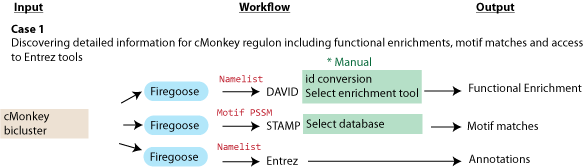
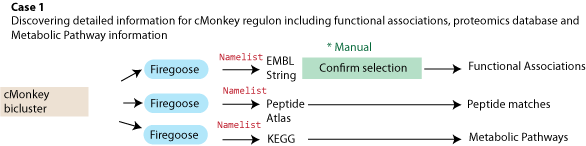
Visual changes to workflow and fixed help pages

diff --git a/web_app/templates/workflow.html b/web_app/templates/workflow.html
@@ -17,16 +17,33 @@
 <div id="container" style="width: 100%">
 <img align="right" width="40px" src="{{STATIC_PREFIX}}images/workflow_logo.png">
 <h5> Gaggle Workflow</h5>
-<div>
-<applet id="GaggleProxy" archive="{{ STATIC_PREFIX }}lib/GaggleProxy.jar, {{ STATIC_PREFIX }}lib/gaggle-connector.jar, {{ STATIC_PREFIX }}lib/boss.jar" code="org.systemsbiology.gaggle.geese.proxygoose.GaggleProxyApplet.class" width="0" height="0">
-</applet>
-
-<!-- <input type="text" id="htmlLoader" />
-<input type="button" value="Load" onclick="LoadHTML()" />
-<input type="button" value="Filter" onclick="FilterHTML()" />
-<div id="divHTMLResult"></div> -->
-
-</div>
+<table width="100%">
+	<tbody>
+		<tr>
+			<th>Start Here <img align="right" width="25px" src="{{ STATIC_PREFIX }}images/Redo.png"></th>
+			<th><span class="small blue fancybutton">1</span>&nbsp; <a class="small red awesome" href='/static/jnlp/boss.jnlp' title="First start Gaggle Boss">Start Boss</a> </th>
+			<th><span class="small blue fancybutton">2</span>&nbsp; Add and connect workflow modules </th>
+			<th><span class="small blue fancybutton">3</span>&nbsp; 
+				<select id="organismSelect" onchange="javascript:organismSelected(this);">
+        		<option value = "" selected>Select an organism</option>
+        		<option value="bce">Bacillus cereus ATCC14579 | bce</option>
+        		<option value="bsu">Bacillus subtilis | bsu</option>
+		        <option value="bth">Bacteroides thetaiotaomicron VPI-5482 | bth</option>
+		        <option value="cje">Campylobacter jejuni | cje</option>
+		        <option value="cac">Clostridium acetobutylicum | cac</option>
+		        <!--<option value="eco">Escherichia coli K12 | eco</option>-->
+		        <option value="gsu">Geobacter sulfurreducens | gsu</option>
+		        <option value="hal">Halobacterium salinarum NRC-1 | hal</option>
+		        <option value="mmp">Methanococcus maripaludis S2 | mmp</option>
+		        <option value="pae">Pseudomonas aeruginosa | pae</option>
+		        <option value="rsp">Rhodobacter sphaeroides 2.4.1 | rsp</option>
+		        <option value="syf">Synechococcus elongatus PCC 7942 | syf</option>
+		    </select></th>
+			<th> <span class="small blue fancybutton">4</span>&nbsp; <input type="button" value="Run Workflow" onclick="SubmitWorkflow()" class="small green awesome" title="Run selected workflow"/></th>
+			<th><a class="componenthelp" href="#quickhelp"><img src="/static/images/question.gif" /></a></th>
+		</tr>
+	</tbody>
+</table>
 <table id="tblWorkflow" class="tblWorkflow">
 <tbody>
 <tr>
@@ -39,7 +56,7 @@
     </div>
 </th>
 <th style="width: 65%">
-<span id="boss"  class="boss"><a href='/static/jnlp/boss.jnlp' title="First start Gaggle Boss">start Gaggle boss</a></span>
+<!--<span id="boss"  class="boss"><a href='/static/jnlp/boss.jnlp' title="First start Gaggle Boss">start Gaggle boss</a></span>-->
 <input type="button" value="Run" onclick="SubmitWorkflow()" class="button-run" title="Run selected workflow"/>
 <input type="button" value="Save" onclick="SaveClicked()" class="button" title="Save or edit current workflow"/>
 <input type="button" value="Delete" onclick="DeleteClicked()" class="button" title="Delete current workflow"/>
@@ -59,7 +76,7 @@
     </div>
 </th>
 </tr>
-<tr>
+<!--<tr>
 	<td></td>
 	<td>
 	    		<select id="organismSelect" onchange="javascript:organismSelected(this);">
@@ -81,7 +98,7 @@
 
 	</td>
 	<td></td>
-</tr>
+</tr>-->
 <tr>
 <td valign="top" style="width: 15%">
  <div id="components" class="divcomponents">
@@ -125,39 +142,43 @@
 <div id="workflowcanvas" class="workflowcanvas" >
 <div><span class="search_help">This is your workflow canvas. Start adding workflow components from the left, open a saved workflow or read our <a class="componenthelp" href="#quickhelp">quick start guide.</a></span></div>
 <div style="display:none">
- <div id="quickhelp"> 
-	<h2>Quick Start Guide</h2>
-	<h5> Initial Setup</h5>
-	<ul>
-		<li>1. Install each goose by using the links on the left (if this is your first time). This will download the updated goose.</li>
-		<li>2. Start the Gaggle Boss by clicking on the <span class="small red awesome">Start the Boss</span> link</li>
-                <li>3. Click on the Gaggle toolbar in Firefox and <b>Connect to Gaggle</b></li>
-		<li>4. Drag and drop the goose you want into your workflow canvas</li>
-		<li>5. For each goose "Enter the url of the executable in your computer" 
-			e.g for cytoscape: "C:\Program Files\Cytoscape_v2.8.3\Cytoscape.exe" in Windows or "/Applications/Cytoscape_v2.8.3" in Mac OSX</li>
-		<li>6. Enter any subactions or data you want to open</li>
-		<li>7. In order to connect to components in the workflow drag the circle from the input goose to square of next workflow component</li>
- 		<li>8. Save your workflow </li>
-	</ul>
+ <div id="quickhelp" style="text-align:left"> 
+	<h2>Workflow Help</h2>
+	<h5>Quick Start Guide</h5>
+		<p><span class="small blue fancybutton">1</span>&nbsp; Start the Gaggle Boss by clicking on the <span class="small red awesome">Start the Boss</span> link and click on the "Gaggle" link in the firegoose toolbar to connect to Gaggle.</p>
+		<p><span class="small blue fancybutton">2</span>&nbsp; Add workflow modules from left sidebar and connect them.</p>
+		<p><span class="small blue fancybutton">3</span>&nbsp; Select an organism to analyze if you would like to use Network Portal organisms in your workflow. This will automatically create necessary attributes specific for the selected organism. Otherwise you can leave this field unselected and enter your custom specifications for each module.</p>
+		<p><span class="small blue fancybutton">4</span>&nbsp; Click <span class="small green awesome">"Run"</span> to start the workflow</li> </p>
+		
+	<h5> Running custom workflows</h5>
+		<p>If you would like to use your own cytoscape or mev files it is possible to create custom workflows. For the initial setup you will need to download and install custom workflow modules. 
+		<p><span class="small blue fancybutton">1</span>&nbsp; Install each goose by using the links on the left (if this is your first time). This will download the updated goose.</p>
+		<p><span class="small blue fancybutton">2</span>&nbsp; Start the Gaggle Boss by clicking on the <span class="small red awesome">Start the Boss</span> link</p>
+        <p><span class="small blue fancybutton">3</span>&nbsp; Click on the Gaggle toolbar in Firefox and <b>Connect to Gaggle</b></p>
+		<p><span class="small blue fancybutton">4</span>&nbsp; Drag and drop the goose you want into your workflow canvas</p>
+		<p><span class="small blue fancybutton">5</span>&nbsp; For each module (except firegoose),  workflow will automatically capture path to the executable file in your computer if you open the module (cytoscape or mev) after the gaggle boss has already started.Alternatively, "Enter the url of the executable in your computer" 
+			e.g for cytoscape: "C:\Program Files\Cytoscape_v2.8.3\Cytoscape.exe" in Windows or "/Applications/Cytoscape_v2.8.3" in Mac OSX. </p>
+		<p><span class="small blue fancybutton">6</span>&nbsp; Select any subactions for your modules from the dropdown menu.</p>
+		<p><span class="small blue fancybutton">7</span>&nbsp; If your workflow requires additional files, enter path to data files in your desktop or on the web. For example, this could be link to the expression file in your desktop or web.</p>
+		<p><span class="small blue fancybutton">8</span>&nbsp; In order to connect to components in the workflow drag the circle from the input goose to square of the next workflow component</p>
+ 		<p><span class="small blue fancybutton">9</span>&nbsp; Save your workflow </p>
+
 	<h5> Running the Workflow</h5>
-	<ul>
-		<li> 1. Create a new workflow or open a saved one</li>
-		<li> 2. Click <span class="small green awesome">"Run"</span> to start the workflow</li>
-		<li> 3. For Firegoose, this will open a new tab and will take you to the page you specified in your workflow</li>
-		<li> 4. Select the type of the data you want for the next component from the Firegoose toolbar and select "Next"</li>
-		<li> 5. Your data will be broadcast to the next component in your workflow and your next application or webpage will be opened.</li>
-		<li> 6. For each workflow component you need to select specific data and click "Next"</li>
-	</ul>
+		<p><span class="small blue fancybutton">1</span>&nbsp; Create a new workflow or open a saved one</p>
+		<p><span class="small blue fancybutton">2</span>&nbsp; Click <span class="small green awesome">"Run"</span> to start the workflow</p>
+		<p><span class="small blue fancybutton">3</span>&nbsp; For Firegoose, this will open a new tab and will take you to the page you specified in your workflow</p>
+		<p><span class="small blue fancybutton">4</span>&nbsp; Select the type of the data you want for the next component from the Firegoose toolbar and select "Next"</p>
+		<p><span class="small blue fancybutton">5</span>&nbsp; Your data will be broadcast to the next component in your workflow and your next application or webpage will be opened.</p>
+		<p><span class="small blue fancybutton">6</span>&nbsp; For each workflow component you need to select specific data and click "Next"</p>
+
 	<h5> Recording the Workflow</h5>
-	<ul>
-		<li> 1. Gaggle can follow your actions and record them into your workflow for automated tasks</li>
-		<li> 2. Before recording make sure that the Gaggle bos has started</li>
-		<li> 3. Click on <span class="small awesome">"Record"</span> button to start recording</li>
-		<li> 4. Create workflow and follow the steps to complete your analysis</li>
-		<li> 5. Go back to your workspace and <span class="small awesome">"Stop"</span> your recording Once you are done</li>
-		<li> 6. Workflow components and connections will be automatically created and placed into your workspace.</li>
-		<li> 7. You can <span class="small awesome">"Pause"</span> workflow anytime</li>	
-	</ul>
+		<p><span class="small blue fancybutton">1</span>&nbsp; Gaggle can follow your actions and record them into your workflow for automated tasks</p>
+		<p><span class="small blue fancybutton">2</span>&nbsp; Before recording make sure that the Gaggle bos has started</p>
+		<p><span class="small blue fancybutton">3</span>&nbsp; Click on <span class="small awesome">"Record"</span> button to start recording</p>
+		<p><span class="small blue fancybutton">4</span>&nbsp; Create workflow and follow the steps to complete your analysis</p>
+		<p><span class="small blue fancybutton">5</span>&nbsp; Go back to your workspace and <span class="small awesome">"Stop"</span> your recording Once you are done</p>
+		<p><span class="small blue fancybutton">6</span>&nbsp; Workflow components and connections will be automatically created and placed into your workspace.</p>
+		<p><span class="small blue fancybutton">7</span>&nbsp; You can <span class="small awesome">"Pause"</span> workflow anytime</p>	
     <h4><a href="/static/apidocuments/index.html">API documents</a> for developing Boss and Goose that supports workflow</h4>
  </div>
 </div>
@@ -270,6 +291,16 @@
       </div>
 </div>
 
+<div>
+<applet id="GaggleProxy" archive="{{ STATIC_PREFIX }}lib/GaggleProxy.jar, {{ STATIC_PREFIX }}lib/gaggle-connector.jar, {{ STATIC_PREFIX }}lib/boss.jar" code="org.systemsbiology.gaggle.geese.proxygoose.GaggleProxyApplet.class" width="0" height="0">
+</applet>
+
+<!-- <input type="text" id="htmlLoader" />
+<input type="button" value="Load" onclick="LoadHTML()" />
+<input type="button" value="Filter" onclick="FilterHTML()" />
+<div id="divHTMLResult"></div> -->
+
+</div>
 
 
 </div>

diff --git a/web_app/templates/help.html b/web_app/templates/help.html
@@ -275,32 +275,31 @@
 					</div>
 					<h4> Case 1 - Discovering Detailed Regulon Information</h4>
 					<div> <img align="right" src="{{ STATIC_PREFIX }}images/workflow_case-1.png">
-					<p> This exercise starts with a regulon in Network Portal. We will use a very simple workflow idea that includes broadcasting data via Firegoose to multiple web resources simultaneously. We will broadcast a Namelist of regulon members to DAVID for functional enrichment analysis and to Entrez to access NCBI tools. We will also broadcast motif PSSM information to STAMP in order to identify matches to known motifs.</p>
+					<p> This exercise starts with a regulon in Network Portal. We will use a very simple workflow idea that includes broadcasting data via Firegoose to multiple web resources simultaneously. We will broadcast a Namelist of regulon members to EMBL String for functional associations and to KEGG Pathways to access metabolic pathway information. We will also broadcast Namelist to Peptide Atlas in order to identify proteomics data available for this organism.</p>
 						<b>STEPS:</b>
 						<ol>
 							<li>Start <span class="small red awesome">Gaggle boss</span></li>
 							<li>First we will collect regulon info from a website by adding a <span class="small awesome">firegoose</span> module. 
 								Path to Firefox should be automatically detected. Leave subaction unchanged. Enter data url, or web resource to get regulon information.
-								In this example we will use one of Methanococcus maripaludis GRN regulon. (http://baliga.systemsbiology.net/cmonkey/enigma/mmp/cmonkey_4.8.8_mmp_1661x58_11_Oct_11_16:14:07/htmls/cluster0114.html)
+								In this example we will use one of Halobacterium sp. MRC-1 GRN regulon. (http://networks.systemsbiology.net/bicluster/788)
 								</li>
-							<li>Add <span class="small awesome">firegoose</span> module for DAVID.
-								Select the "DAVID" option from subaction menu and connect to the first Firegoose module.
-								<code>Manual: You need to convert the Namelist to a DAVID Id list once it has been submitted to DAVID.</code></li>
-							<li>Add firegoose module for Entrez. Select "Entrez Protein" subaction and connect to the first Firegoose module.</li>
-							<li>Last, we will add another firegoose module for STAMP. Select the "STAMP" subaction and connect to the first Firegoose module.</li>
-								<code>Manual: You need to select an appropriate database for motif searching on the STAMP site.</code></li>
+							<li>Add <span class="small awesome">firegoose</span> module for EMBL String.
+								Select the "EMBL String" option from subaction menu and connect to the first Firegoose module.
+								<code>Manual: You need to click continue once EMBL String page has opened to confirm namelist to organism mapping.</code></li>
+							<li>Add firegoose module for KEGG. Select "KEGG Pathway" subaction and connect to the first Firegoose module.</li>
+							<li>Last, we will add another firegoose module for "Peptide Atlas". Select the "Peptide Atlas" subaction and connect to the first Firegoose module.</li>
+							
 							<li> Optional: Save your workflow</li>
 							<li> Run your workflow by using <span class="small green awesome">"Run"</span> button in the control panel.</li>	
 						</ol>
 					</div>
 					<h4> Case 2 - Analyzing gene expression data</h4>
 					<div> <img align="right" src="{{ STATIC_PREFIX }}images/workflow_case-2.png">
-					<p> The second exercise includes both desktop applications and web resources. The aim of this workflow is to automate analysis of gene expression data and identify functional associations, functional enrichments and associated regulatory network modules. We will start by opening a gene expression file (tab delimited) in Mev. After performing statistical analyses, we will broadcast selected genes via Firegoose to KEGG (Metabolic pathway enrichment) and EMBL Strings (Functional associations). Inparallel, we will also open a Network model in Cytoscape and broadcast our gene list to the network in order to select network modules that include these genes.</p>   
+					<p> The second exercise includes both desktop applications and web resources. The aim of this workflow is to automate analysis of gene expression data and identify functional associations, functional enrichments and associated regulatory network modules. We will start by opening a gene expression file (tab delimited) in Mev. After performing statistical analyses, we will broadcast selected genes via Firegoose to KEGG (Metabolic pathway enrichment) and EMBL Strings (Functional associations). In parallel, we will also open a Network model in Cytoscape and broadcast our gene list to the network in order to select network modules that include these genes.</p>   
 						<b>STEPS:</b>
 						<ol>
 							<li>Start <span class="small red awesome">Gaggle boss</span></li>
-							<li>We will add mev module to open a gene expression file. Leave subaction unchanged. If you are opening the gene expression file from the web, enter the url; otherwise, enter the path to the file on your computer.								In this example we will use gene expression data coming from studying energy metabolism for Desulfovibrio vulgaris.
-								We will compare gene expression upon growth on Pyruvate+Sulfate versus Pyruvate/Fermentation.
+							<li>We will add mev module to open a gene expression file. Leave subaction unchanged. If you are opening the gene expression file from the web, enter the url; otherwise, enter the path to the file on your computer. In this example we will use gene expression data coming from Desulfovibrio vulgaris in the Network Portal.
 								<code>Manual: After your workflow has started Mev will load the gene expression file. You can perform SAM analyses and then select genes that are upregulated in Pyruvate/Fermentation conditions and then broadcast them to the workflow.</code></li>
 								</li>
 							<li>Add firegoose module for EMBL Strings. Select "EMBL Strings" subaction and connect to MEV module. The EMBL Strings website will use the Namelist for our selected genes and search against the Strings database to identify functional associations. The resulting functional association network will be shown and captured in the workflow report.</li>
@@ -308,15 +307,15 @@
 								Select "EMBL Strings" subaction and connect to MEV module. EMBL Strings website will use Namelist for our selected genes and search against Strings database 
 								to identify functional associations. Resulting functional association network will be shown and captured in the workflow report.</li>
 							<li>Last, we will add <span class="small awesome">Cytoscape</span> module to open a network file. (For this example we will use GRN model for D. vulgaris).
-								Connect Cytoscape module to MEV module and enter path to your cytoscape network file (web or desktop). When workflow is started cytoscape will open 
-								your network file and capture broadcast list from MEV. Upregulated genes will be selected in the network for further network manipulations.
-								</li>
+								Connect Cytoscape module to MEV module and enter path to your cytoscape network file (For this example network will be automatically downloaded once you select an organism). When workflow is started cytoscape will open 
+								your network file and capture broadcast list from MEV.</li>
+							<li> Make sure to select Desulfovibrio vulgaris Hildenborough from organism selection drowdown menu.</li>
 							<li> Optional: Save your workflow</li>
 							<li> Run your workflow by using <span class="small green awesome">"Run"</span> button in the control panel.</li>	
 						</ol>
 					</div>
-					<h4> Case 3 - Assigning functions to hypothetical proteins</h4>
-					<div><img src="{{ STATIC_PREFIX }}images/workflow_case-3.png"></div>
+					<!--<h4> Case 3 - Assigning functions to hypothetical proteins</h4>
+					<div><img src="{{ STATIC_PREFIX }}images/workflow_case-3.png"></div>-->
 					</div></p>
 				</div>
 		
@@ -325,10 +324,10 @@
 			</div>
 			
 			<div id="tabs-5"><h5> Get Involved</h5><br>
-				<h4 class="medium orange awesome"> Development </h4>
+				<h3> <span class="small red fancybutton">1</span>&nbsp;Development </h3>
 				<p>One of the key benefits of the Gaggle and Gaggle Workflow is that anyone can implement their own Geese. We hope to promote interoperability among bioinformatics applications by making this as easy as possible. Have an application you'd like to see included on this page? Please contact us by email (sturkars at systemsbiology.org) or through the discussion groups.</p>
 				<p> We strongly encourage developers to take advantage of easy implementation features in Gaggle and Network Portal. If you are a developer who would like to integrate his/her desktop/web applications with Gaggle/Network Portal we provide all the support you need.</p>
-				<h4 class="medium orange awesome">Gaggle Subversion Repository</h4>
+				<h3> <span class="small red fancybutton">2</span>&nbsp;Gaggle Subversion Repository </h3>
 				<p>
 				The Gaggle's source code is all open source, licensed under the LGPL,
 				and served using the
@@ -355,23 +354,20 @@
 					</li>
 				</ul>
 				
-				
-				<p>
-				
-				<h4 class="medium orange awesome">Firegoose Source code</h4>
+				<h3> <span class="small red fancybutton">3</span>&nbsp;Firegoose Source code </h3>
 				<ul>
 					<li>Firegoose source is here:
 						<a href="http://gaggle.systemsbiology.net/svn/gaggle/FireGoose/trunk/">http://gaggle.systemsbiology.net/svn/gaggle/FireGoose/trunk/</a></li>
 				</ul>
-				<h4 class="medium orange awesome">Network Portal Source code</h4>
+				<h3> <span class="small red fancybutton">4</span>&nbsp;Network Portal Source code </h3>
 				<ul>
 					<li>Network Portal source is here:
 						<a href="http://baliga-lab/github.com/network_portal">http://baliga-lab/github.com/network_portal</a></li>
 				</ul>
-				<h4 class="medium orange awesome">Gaggle Workflow API</h4>
+				<h3> <span class="small red fancybutton">5</span>&nbsp;Gaggle Workflow API </h3>
 				<ul>
 					<li>Workflow API documentation is here:
-						<a href="http://baliga-lab/github.com/network_portal">http://baliga-lab/github.com/network_portal</a></li>
+						<a href="/static/apidocuments/index.html">http://networks.systemsbiology.net/static/apidocuments</a></li>
 				</ul>
 
 			</div>       

diff --git a/web_app/static/stylesheets/portal-style.css b/web_app/static/stylesheets/portal-style.css
@@ -472,7 +472,7 @@ input.button-record {
     padding: 1px 0 60px 0; /*6px should equal top padding of "ul li a" below, 7px should equal bottom padding + bottom border of "ul li a" below*/
    float:right;
     margin: -50px 2px;
-    text-align: right; //set value to "left", "center", or "right"*/
+    text-align: right; /*set value to "left", "center", or "right"*/
 }
 
 .underlinemenu ul li{
@@ -1937,6 +1937,25 @@ table#motif {
 .yellow.awesome:hover { background-color: #fc9200; }
 .green.awesome, .green.awesome:visited		{ background-color: #91bd09; }
 
+.fancybutton, .fancybutton:visited {
+	background-color: #222;
+	display: inline-block; 
+	padding: 5px 5px 6px; 
+	color: #fff; 
+	text-decoration: none;
+	-moz-border-radius: 10px; 
+	-webkit-border-radius: 10px;
+	-moz-box-shadow: 0 1px 3px rgba(0,0,0,0.5);
+	-webkit-box-shadow: 0 1px 3px rgba(0,0,0,0.5);
+	text-shadow: 0 -1px 1px rgba(0,0,0,0.25);
+	border-bottom: 1px solid rgba(0,0,0,0.25);
+	position: relative;
+	border-radius:10px;
+	box-shadow: 0 1px 3px rgba(0,0,0,0.5);
+}
+
+
+
 /* Sizes ---------- */
 .small.awesome {
 font-size: 10px;
@@ -1949,6 +1968,19 @@ font-size: 14px;
 padding: 8px 14px 9px;
 margin: 0px 0px 0px 5px;
 }
+/* Sizes ---------- */
+.small.fancybutton {
+font-size: 10px;
+}
+.medium.fancybutton {
+font-size: 13px;
+}
+.large.fancybutton {
+font-size: 14px;
+padding: 8px 14px 9px;
+margin: 0px 0px 0px 5px;
+}
+
  
 /* Colors ---------- */
 .blue.awesome {
@@ -1966,3 +1998,20 @@ background-color: #ff5c00;
 .yellow.awesome {
 background-color: #ffb515;
 }
+/* Colors ---------- */
+.blue.fancybutton {
+background-color: #2daebf;
+}
+.red.fancybutton {
+background-color: #e33100;
+}
+.magenta.fancybutton {
+background-color: #a9014b;
+}
+.orange.fancybutton {
+background-color: #ff5c00;
+}
+.yellow.fancybutton {
+background-color: #ffb515;
+}
+

diff --git a/web_app/templates/home.html b/web_app/templates/home.html
@@ -33,7 +33,7 @@
 {% block content %} <div class="main">
   <h5>Welcome to Network Portal  <img src="{{ STATIC_PREFIX }}images/logo_small.png" title="Network Portal Icon" style="background:none;border:0px;position:relative; float:right;"></h5>
   <p> Network Portal provides analysis and visualization tools for selected gene regulatory networks to aid researchers in biological discovery and hypothesis development. [<a href="/about" title="Read more"> ..read more</a>]</p>
-<p><a class="large blue awesome" href="/help#tabs-4"> See it in Action</a><a class="large magenta awesome" href="/help"> Get Help</a><a class="large yellow awesome" href="/help#tabs-5"> Get involved</a>
+<p><a class="large blue awesome" href="/workflow"> See it in Action</a><a class="large magenta awesome" href="/help"> Get Help</a><a class="large yellow awesome" href="/help#tabs-5"> Get involved</a>
 <div>
 	<ul id="accordion-slider">
 		<li><a href="workflow"><img src="{{ STATIC_PREFIX }}images/slide-1.jpg"/></a><span>Visit <a href="workflow" title="workflow">Workflow</a> page to give it a try.</span></li>
